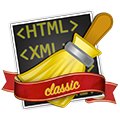
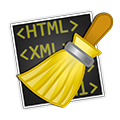
Started help project migration.

Changed region(s): [[0.0, 0.575, 1.0, 0.875], [0.925, 0.15, 0.95, 0.2]]

diff --git a/Balthisar Tidy Help Project/config.rb b/Balthisar Tidy Help Project/config.rb
@@ -11,7 +11,7 @@
 #  that the build system sets for us. You’ll have to set up Xcode to
 #  set this environment variable, of course.
 ##########################################################################
-version_app = ENV.has_key?('TIDY_CFBundleShortVersionString') ? ENV['TIDY_CFBundleShortVersionString'] : '4.2.0'
+version_app = ENV.has_key?('TIDY_CFBundleShortVersionString') ? ENV['TIDY_CFBundleShortVersionString'] : '4.3.0'
 
 
 ##########################################################################
@@ -96,10 +96,9 @@ config[:targets] = {
                 :ProductName     => 'Balthisar Tidy',
                 :ProductVersion  => version_app,
                 :ProductURI      => 'http://www.balthisar.com/',
-                :ProductCopyright => '© 2018 Jim Derry. All rights reserved.',
+                :ProductCopyright => '© 2019 Jim Derry. All rights reserved.',
                 :features =>
                     {
-                        :feature_advertise_pro        => true,
                         :feature_sparkle              => true,
                         :feature_exports_config       => false,
                         :feature_exports_rtf          => false,
@@ -114,15 +113,14 @@ config[:targets] = {
         :app =>
             {
                 :CFBundleID      => 'com.balthisar.Balthisar-Tidy.help',
-                :HPDBookIconPath => nil,
+                :HPDBookIconPath => 'SharedGlobalAssets/convention/app-icon_32x32@2x.png',
                 :CFBundleName    => 'Balthisar Tidy',
-                :ProductName     => 'Balthisar Tidy',
+                :ProductName     => 'Balthisar Tidy Classic',
                 :ProductVersion  => version_app,
                 :ProductURI      => 'http://www.balthisar.com/',
-                :ProductCopyright => '© 2018 Jim Derry. All rights reserved.',
+                :ProductCopyright => '© 2019 Jim Derry. All rights reserved.',
                 :features =>
                     {
-                        :feature_advertise_pro        => true,
                         :feature_sparkle              => false,
                         :feature_exports_config       => false,
                         :feature_exports_rtf          => false,
@@ -139,13 +137,12 @@ config[:targets] = {
                 :CFBundleID      => 'com.balthisar.Balthisar-Tidy.pro.help',
                 :HPDBookIconPath => nil,
                 :CFBundleName    => 'Balthisar Tidy',
-                :ProductName     => 'Balthisar Tidy for Work',
+                :ProductName     => 'Balthisar Tidy',
                 :ProductVersion  => version_app,
                 :ProductURI      => 'http://www.balthisar.com/',
-                :ProductCopyright => '© 2018 Jim Derry. All rights reserved.',
+                :ProductCopyright => '© 2019 Jim Derry. All rights reserved.',
                 :features =>
                     {
-                        :feature_advertise_pro        => false,
                         :feature_sparkle              => false,
                         :feature_exports_config       => true,
                         :feature_exports_rtf          => true,
